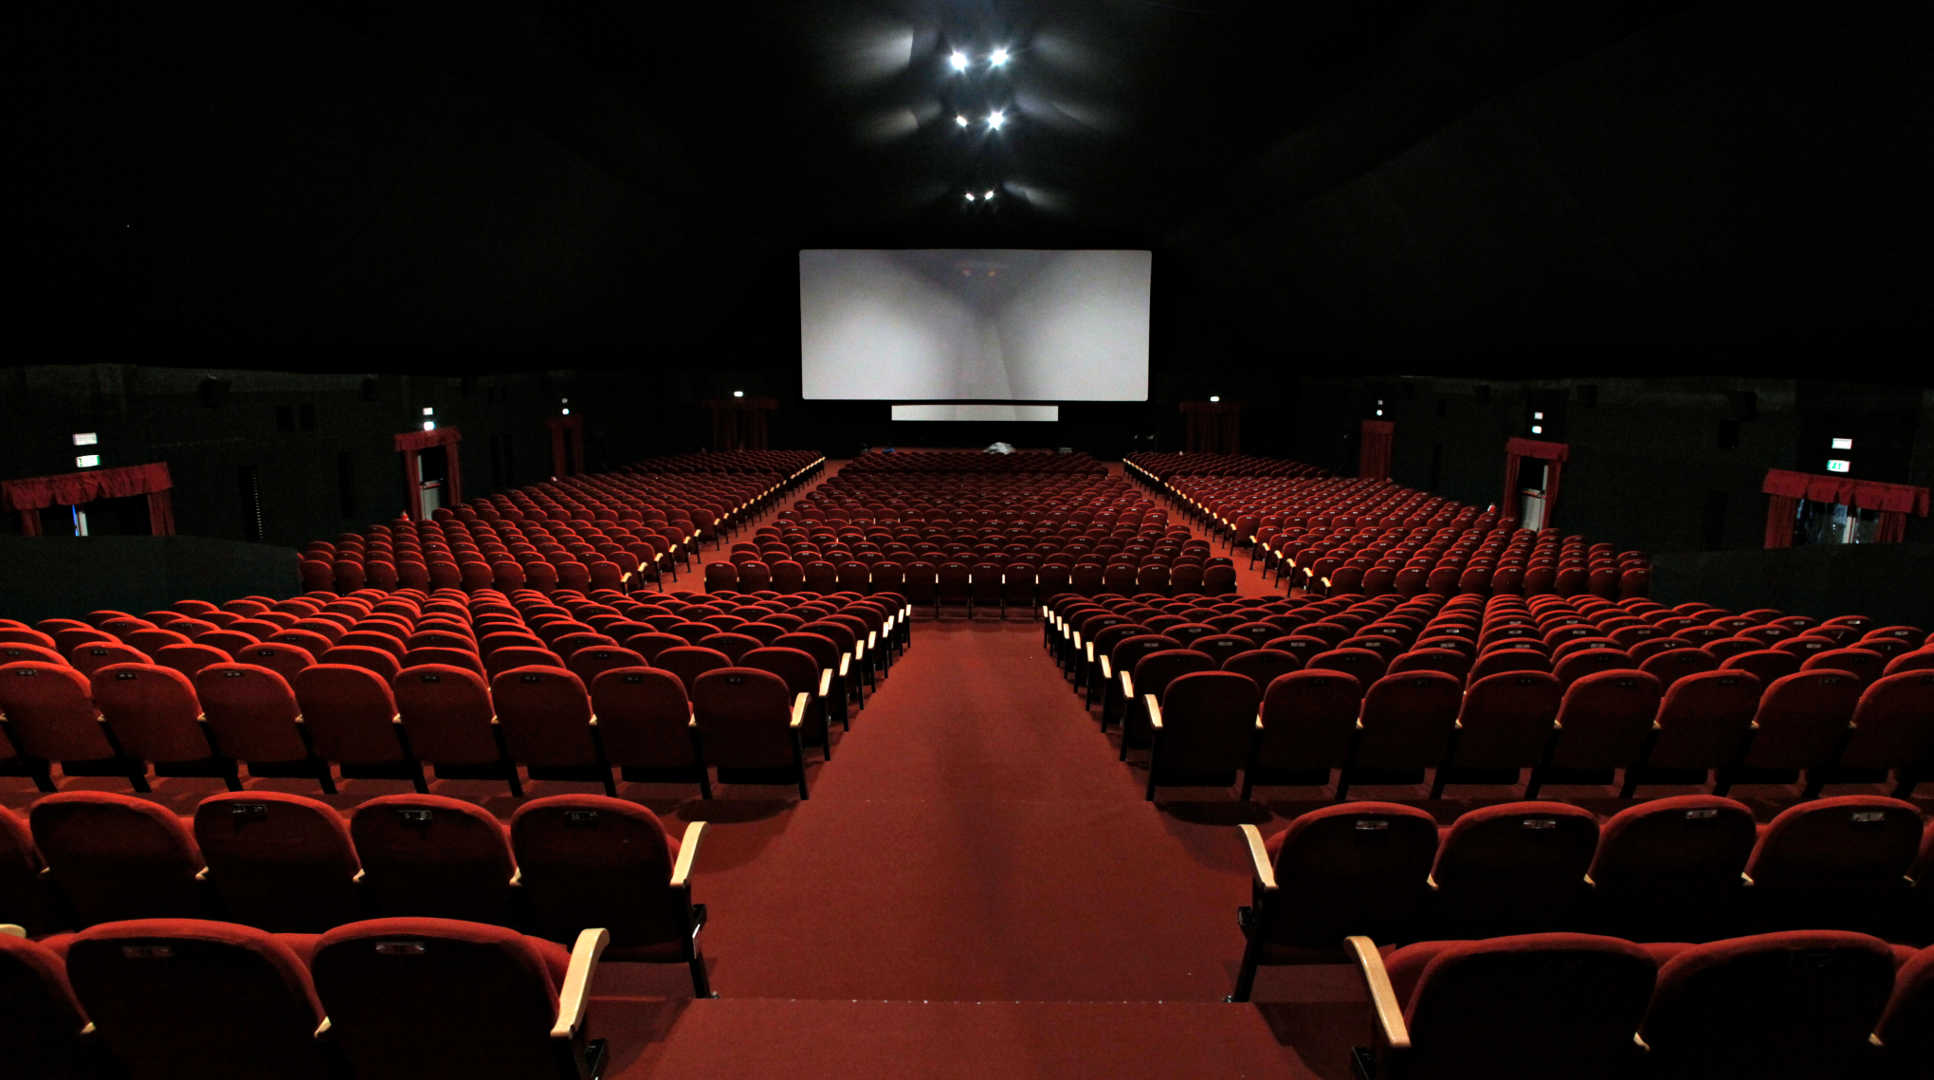
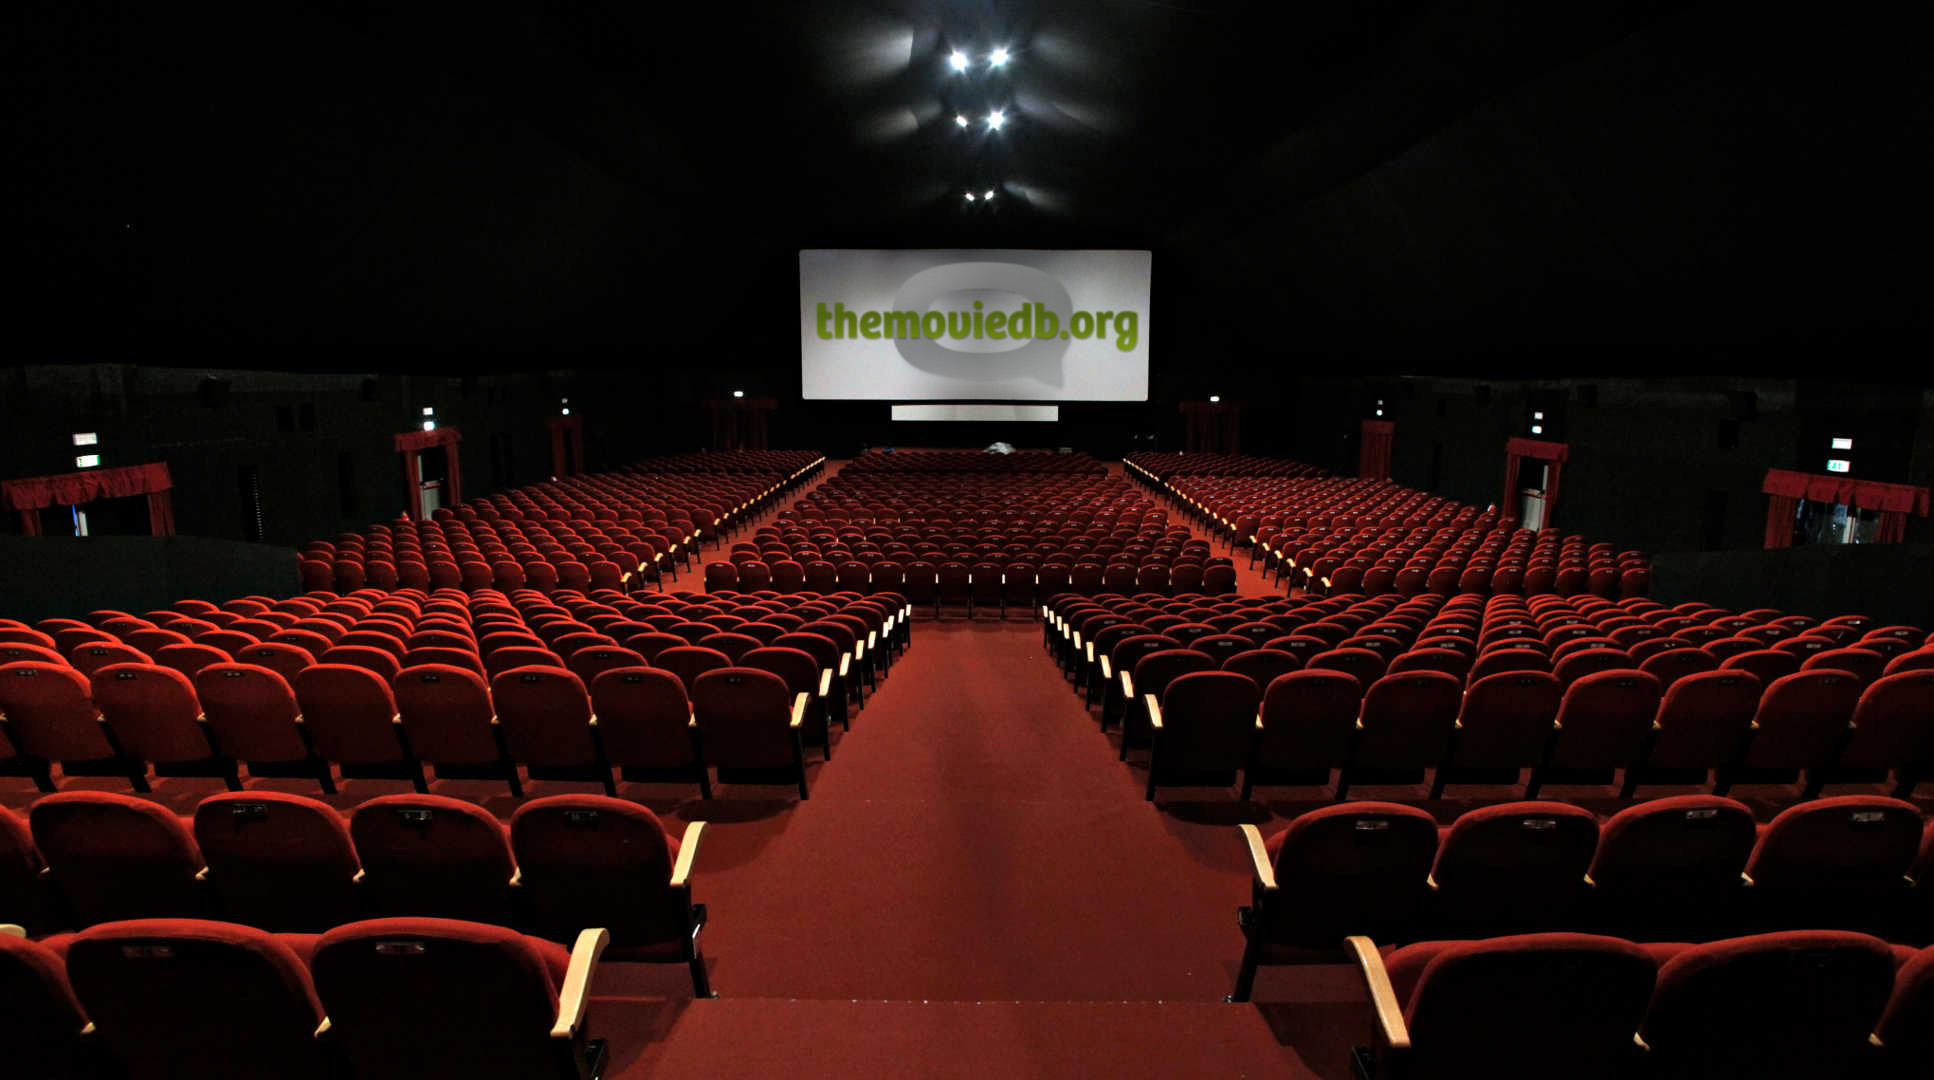
TMDB: fallback to english for overview and trailers.
also a new backdrop for the channnel

Changed region(s): [[0.4033, 0.2139, 0.5895, 0.3667]]

diff --git a/epymc/plugins/onlinevideo/themoviedb/themoviedb.py b/epymc/plugins/onlinevideo/themoviedb/themoviedb.py
@@ -43,10 +43,10 @@ STATE, URL = state_get()
 LANG = language_get()
 
 
-def v3_request(url):
+def v3_request(url, lang=None):
    if not '?' in url: url += '?'
-   url = API_BASE + url + '&api_key=' + API_KEY + '&language=' + LANG
-   print("URL " + url)
+   url = API_BASE + url + '&api_key=' + API_KEY + '&language=' + (lang or LANG)
+   # print("API REQUEST: " + url)
    return fetch_url(url, parser='json')
 
 def full_img_url(img, size='w500'):
@@ -112,14 +112,14 @@ elif STATE == ST_MOVIES_LIST:
 ################################################################################
 elif STATE == ST_MOVIE_INFO:
    data = v3_request(URL)
+   if not data['overview'] or not data['videos']['results']:
+      fallback = v3_request(URL, lang='en')
 
    # movie info
    title = data['title']
+   original = data['original_title']
    poster = full_img_url(data['poster_path'])
-   try:
-      overview = data['overview']
-   except:
-      overview = ''
+   overview = data['overview'] or fallback['overview'] or ''
 
    try:
       genres = ', '.join([ g['name'] for g in data['genres'] ])
@@ -150,11 +150,13 @@ elif STATE == ST_MOVIE_INFO:
           '<small><name>{}:</name> {}</small><br>' \
           '<small><name>{}:</name> {}</small><br>' \
           '<small><name>{}:</name> {}</small><br>' \
+          '<small><name>{}:</name> {}</small><br>' \
           '<small><name>{}:</name> {}/10 ({} {})</small><br>' \
           '<small><name>{}:</name> {}</small><br>' \
           '{}'.format(title, country, year,
              _('Director'), ', '.join(directors),
              _('Cast'), ', '.join(casts),
+             _('Original title'), original,
              _('Genres'), genres,
              _('Rating'), data['vote_average'], data['vote_count'], _('votes'),
              _('Released'), data['release_date'],
@@ -163,19 +165,24 @@ elif STATE == ST_MOVIE_INFO:
             info=info, icon='icon/info', action=ACT_NONE)
 
    # trailers
-   for video in data['videos']['results']:
-      if video['site'] == 'YouTube':
-         url = 'https://www.youtube.com/watch?v=%s' % video['key']
-         info = '<title>{}</title><br>' \
-                '<name>{}:</name> <value>{}</value><br>' \
-                '<name>{}:</name> <value>{}</value><br>' \
-                '<name>{}:</name> <value>{}</value>'.format(
-                   video['name'],
-                   _('Language'), video['iso_639_1'],
-                   _('Source'), video['site'],
-                   _('Resolution'), video['size'])
-         item_add(ST_PLAY_YOUTUBE, video['name'], url,
-                  info=info,poster=poster, icon='icon/play')
+   L = data['videos']['results'] + fallback['videos']['results']
+   if len(L) > 0:
+      for video in L:
+         if video['site'] == 'YouTube':
+            url = 'https://www.youtube.com/watch?v=%s' % video['key']
+            info = '<title>{}</title><br>' \
+                   '<name>{}:</name> <value>{}</value><br>' \
+                   '<name>{}:</name> <value>{}</value><br>' \
+                   '<name>{}:</name> <value>{}p</value>'.format(
+                      video['name'],
+                      _('Language'), video['iso_639_1'],
+                      _('Source'), video['site'],
+                      _('Quality'), video['size'])
+            item_add(ST_PLAY_YOUTUBE, video['name'], url,
+                     info=info,poster=poster, icon='icon/play')
+   else:
+      item_add(ST_NONE, _('No trailers available'), None,
+               poster=poster, icon='icon/play', action=ACT_NONE)
 
    # cast
    item_add(ST_CAST_LIST, _('Cast'), '/movie/%d/credits' % data['id'],
